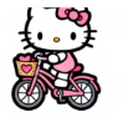
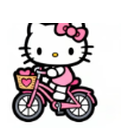
fix: 健身图标 Kitty 完整 + 主题改本机偏好不再被云端覆盖\n\n【1】健身图标重新裁剪：之前用 cell 中心裁剪 + pad=3，把自行车图标里\nKitty 耳朵顶端切掉了（bike 单元格灰色面板贴满边缘，Kitty 头部近顶端）。\n新方案：固定裁剪框 (8,99,104,188) 避开面板深色描边，Kitty 耳朵、\n蝴蝶结、头、脸完整无缺失；正方形内 top_ratio=0.15 让 Kitty 坐在中下部\n（用户要求的"往下移动"），上方留出耳朵空间。\n效果对比 tea-tiny/cart-tiny 完全一致。\n\n【2】页面变黑根因：云端 settings

diff --git a/js/db.js b/js/db.js
@@ -24,6 +24,9 @@ const DB = {
     i18n: 'language_pref',
   },
 
+  // 本机偏好（不同步到云端，避免跨设备覆盖主题等个人设置）
+  LOCAL_ONLY_KEYS: new Set(['local_theme']),
+
   // 读取
   get(key, fallback = null) {
     try {
@@ -268,8 +271,12 @@ const DB = {
     if (keys.size === 0) { this._setSyncStatus('idle'); return; }
     let hasError = false;
     for (const k of keys) {
-      const value = this.get(k);
+      let value = this.get(k);
       if (value === null || value === undefined) { this._clearDirty(k); continue; }
+      if (k === 'settings' && value && typeof value === 'object') {
+        const { theme, ...rest } = value;
+        value = rest;
+      }
       const ok = await SupabaseCfg.pushKey(k, value);
       if (ok) {
         this._clearDirty(k);
@@ -301,10 +308,14 @@ const DB = {
     let pending = keys.size;
     let hasError = false;
     keys.forEach(async (k) => {
-      const value = this.get(k);
+      let value = this.get(k);
       if (value === null || value === undefined) {
         this._clearDirty(k);
       } else {
+        if (k === 'settings' && value && typeof value === 'object') {
+          const { theme, ...rest } = value;
+          value = rest;
+        }
         const ok = await SupabaseCfg.pushKey(k, value);
         if (ok) this._clearDirty(k);
         else { hasError = true; this._markDirty(k); }
@@ -356,18 +367,27 @@ const DB = {
     this._setSyncStatus('syncing');
     let count = 0;
     // 收集所有需要同步的 key：静态 keys + 动态 key（扫描 localStorage）+ 脏 key 队列
+    // 注意：LOCAL_ONLY_KEYS（local_theme 等本机偏好）不同步到云端，避免跨设备覆盖
     const keysToSync = new Set(Object.values(this.keys));
     for (let i = 0; i < localStorage.length; i++) {
       const fullKey = localStorage.key(i);
       if (fullKey && fullKey.startsWith(this.PREFIX)) {
-        keysToSync.add(fullKey.slice(this.PREFIX.length));
+        const k = fullKey.slice(this.PREFIX.length);
+        if (!this.LOCAL_ONLY_KEYS.has(k)) keysToSync.add(k);
       }
     }
     // 也包含脏 key 队列中待推的 key
-    this._loadDirty().forEach(k => keysToSync.add(k));
+    this._loadDirty().forEach(k => {
+      if (!this.LOCAL_ONLY_KEYS.has(k)) keysToSync.add(k);
+    });
     for (const k of keysToSync) {
-      const v = this.get(k);
+      let v = this.get(k);
       if (v === null || v === undefined) continue;
+      // settings 里的 theme 是本机偏好，推送时剥离防止跨设备覆盖
+      if (k === 'settings' && v && typeof v === 'object') {
+        const { theme, ...rest } = v;
+        v = rest;
+      }
       const ok = await SupabaseCfg.pushKey(k, v);
       if (ok) {
         count++;

diff --git a/js/app.js b/js/app.js
@@ -41,27 +41,25 @@ const App = {
 
   // 主题切换
   setupTheme() {
-    const apply = (theme, persist = false) => {
+    // 主题是本机偏好，单独存在 local_theme（不在云端 keys 中），
+    // 不会被云同步覆盖/污染，跨设备各自独立
+    const apply = (theme) => {
       document.body.dataset.theme = theme;
-      // 仅在用户主动切换时持久化，避免 init 时写入产生"近期本地写入"时间戳
-      // 导致 pullFromCloud 误判本地比云端新而跳过拉取
-      if (persist) {
-        DB.set('settings', { ...(DB.get('settings', {})), theme });
-      }
       document.querySelectorAll('[id$="-theme-toggle"]').forEach(b => {
         b.textContent = theme === 'dark' ? '☀' : '🌗';
       });
     };
 
-    const settings = DB.get('settings', {});
-    apply(settings.theme || 'light');
+    const theme = DB.get('local_theme', null) || 'light';
+    apply(theme);
 
-    document.getElementById('mobile-theme-toggle')?.addEventListener('click', () => {
-      apply(document.body.dataset.theme === 'dark' ? 'light' : 'dark', true);
-    });
-    document.getElementById('pc-theme-toggle')?.addEventListener('click', () => {
-      apply(document.body.dataset.theme === 'dark' ? 'light' : 'dark', true);
-    });
+    const toggle = () => {
+      const next = document.body.dataset.theme === 'dark' ? 'light' : 'dark';
+      apply(next);
+      DB.set('local_theme', next);
+    };
+    document.getElementById('mobile-theme-toggle')?.addEventListener('click', toggle);
+    document.getElementById('pc-theme-toggle')?.addEventListener('click', toggle);
   },
 
   // 密码锁

diff --git a/sw.js b/sw.js
@@ -1,7 +1,7 @@
 /* Hello Kitty 治愈工作台 — Service Worker
    离线优先缓存策略 + Kitty 立绘缓存 */
 
-const CACHE_NAME = 'kitty-wb-v2.7.0';
+const CACHE_NAME = 'kitty-wb-v2.8.0';
 const STATIC_ASSETS = [
   './',
   './index.html',
